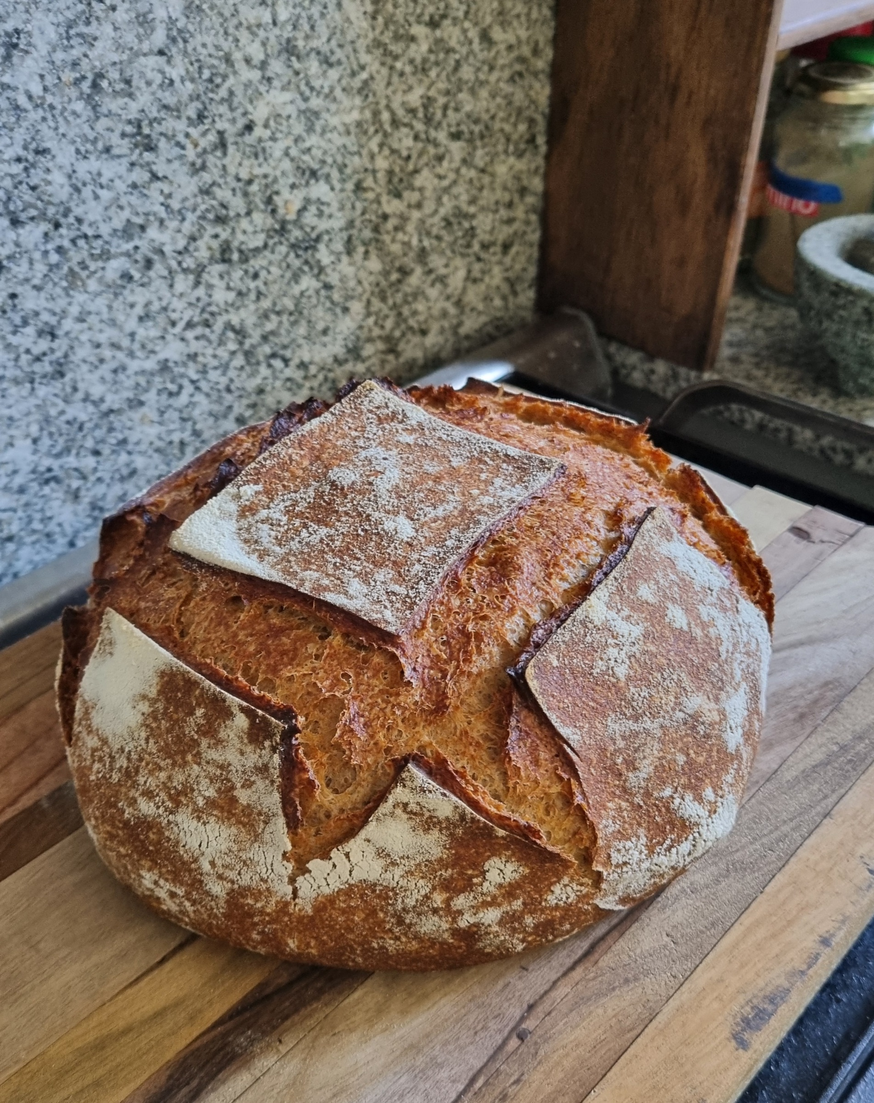
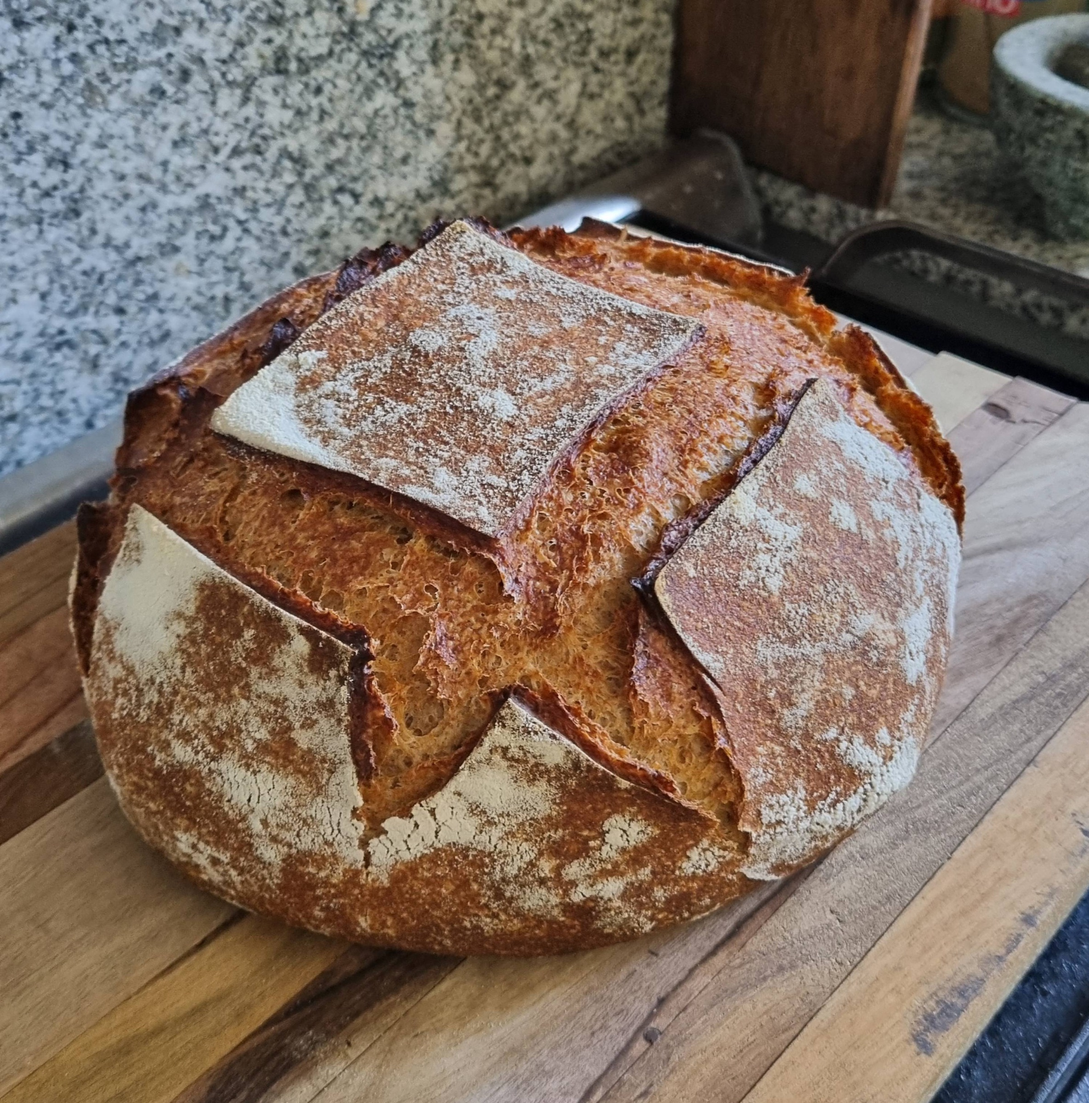
fix: volver a la foto original (CUT.jpg) con focalY=15
A pedido: vuelta a la primera toma (casi cuadrada) en vez de la más
vertical (CUT2), con el punto focal subido a 15 (antes 30 sobre la
otra foto). A diferencia de CUT2, esta foto sí tiene margen vertical
para "cover" en mobile (es casi cuadrada, no tan alta), así que acá el
focalY cambia el recorte en los dos breakpoints, no solo en desktop.

Optimizada igual que la anterior: sips -Z 2400, calidad 80 (2370×2400,
~1.5MB).

Verificado: los 2 tests de Playwright pasan, tsc/lint limpios,
comparación visual en desktop (1280px) y mobile (375px) en preview
local.

diff --git a/components/home/HomeHero.tsx b/components/home/HomeHero.tsx
@@ -8,12 +8,12 @@ import InstagramIcon from "@/components/InstagramIcon";
 // post-BRT-135); el link "Pedidos" de la topbar solo hace scroll ahí,
 // no es un botón.
 //
-// Foto: /public/hero-hogaza.jpg (1903×2400, foto vertical de la hogaza).
-// Punto focal a mano (a pedido: "más arriba", sin un valor exacto) — no
-// viene de datos como en ProductCard (es un único asset estático, no
-// hace falta una UI de punto focal para esto), pero queda como una
-// constante fácil de retocar en vez de un valor mágico en el JSX.
-const HERO_FOCAL_Y = 30; // 50 = centro; más bajo = ver más de la parte de arriba de la foto.
+// Foto: /public/hero-hogaza.jpg (2370×2400, casi cuadrada — vuelta a la
+// primera toma, CUT.jpg). Punto focal a mano — no viene de datos como en
+// ProductCard (es un único asset estático, no hace falta una UI de
+// punto focal para esto), pero queda como una constante fácil de
+// retocar en vez de un valor mágico en el JSX.
+const HERO_FOCAL_Y = 15; // 50 = centro; más bajo = ver más de la parte de arriba de la foto.
 
 export default function HomeHero() {
   return (
